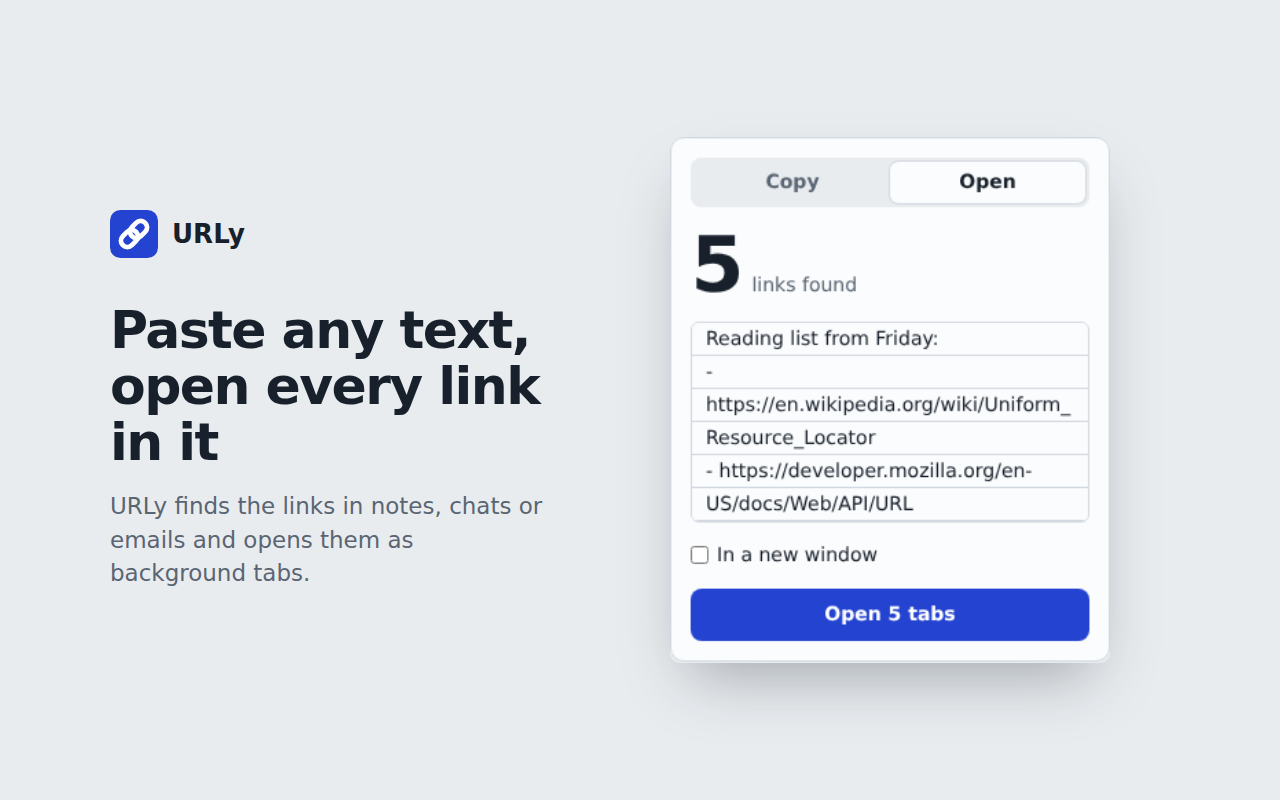
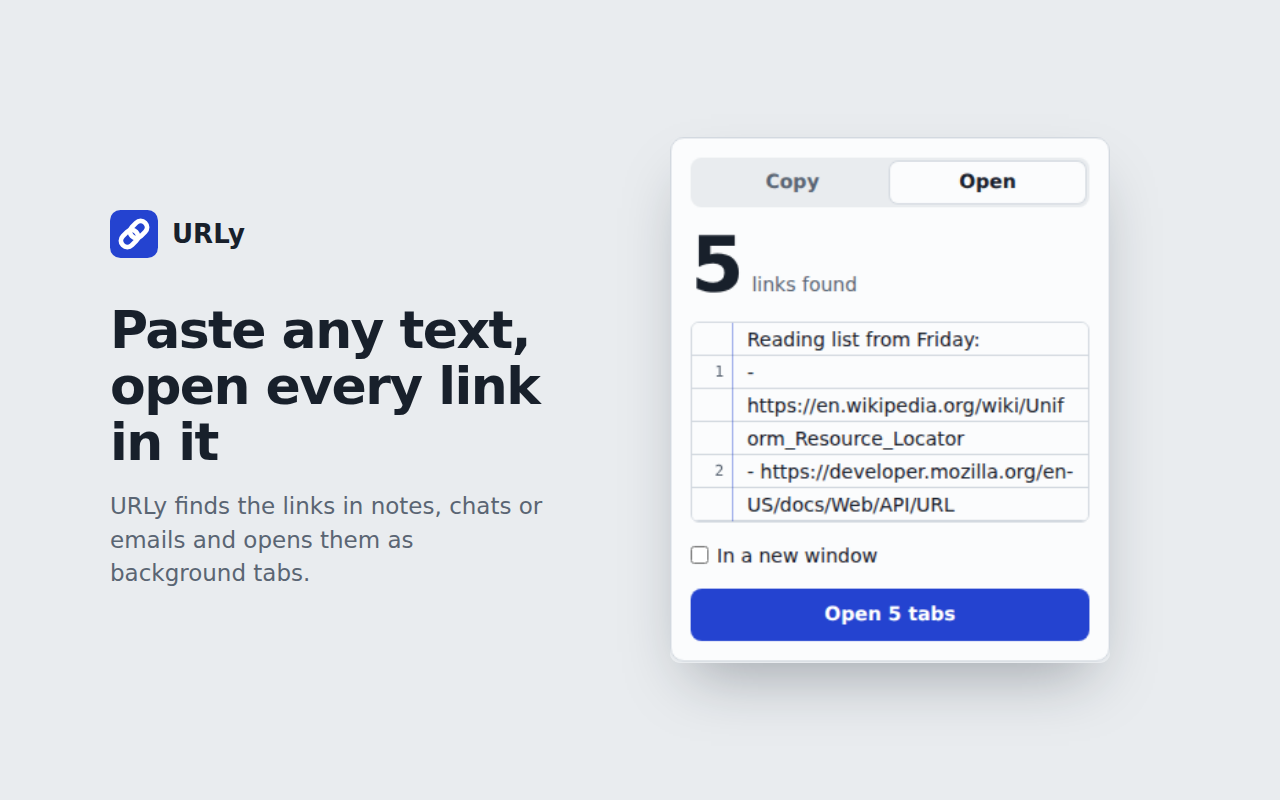
Number the links in the Open text box
A margin over the text box shows each line's link number, matching the
found count and the order tabs open in. A hidden mirror measures wrapped
lines so numbers stay aligned, and the margin scrolls with the text.

diff --git a/src/entrypoints/popup/main.ts b/src/entrypoints/popup/main.ts
@@ -14,6 +14,7 @@ import {
   formatEntries,
   FORMATS,
   isCopyFormat,
+  linkNumbersByLine,
 } from '@/lib/urls';
 
 type Mode = Settings['mode'];
@@ -39,6 +40,8 @@ const openCount = $('open-count');
 const openLabel = $('open-label');
 const paste = $<HTMLTextAreaElement>('paste');
 const openButton = $<HTMLButtonElement>('open');
+const gutter = $('gutter');
+const mirror = $('mirror');
 const preview = $<HTMLOListElement>('preview');
 const status = $('status');
 const shortcut = $('shortcut');
@@ -117,7 +120,31 @@ function copy() {
   );
 }
 
+const row = (text: string) => {
+  const element = document.createElement('div');
+  element.textContent = text;
+  return element;
+};
+
+function renderGutter() {
+  const style = getComputedStyle(paste);
+  const padding =
+    parseFloat(style.paddingLeft) + parseFloat(style.paddingRight);
+  mirror.style.width = `${paste.clientWidth - padding}px`;
+  mirror.replaceChildren(...paste.value.split('\n').map(row));
+  const numbers = linkNumbersByLine(paste.value);
+  gutter.replaceChildren(
+    ...[...mirror.children].map((line, index) => {
+      const number = row(String(numbers[index] ?? ''));
+      number.style.height = `${(line as HTMLElement).offsetHeight}px`;
+      return number;
+    }),
+  );
+  gutter.scrollTop = paste.scrollTop;
+}
+
 function updateLinks() {
+  renderGutter();
   links = extractUrls(paste.value);
   const count = links.length;
   openCount.textContent = String(count);
@@ -191,6 +218,9 @@ clean.addEventListener('change', () => {
 
 copyButton.addEventListener('click', copy);
 openButton.addEventListener('click', () => void open());
+paste.addEventListener('scroll', () => {
+  gutter.scrollTop = paste.scrollTop;
+});
 paste.addEventListener('input', () => {
   updateLinks();
   setStatus('');

diff --git a/src/entrypoints/popup/style.css b/src/entrypoints/popup/style.css
@@ -201,11 +201,53 @@ textarea {
   accent-color: var(--accent);
 }
 
+/* The textarea cannot number its own lines, so a gutter sits over its left
+   padding and a hidden mirror measures how tall each wrapped line is. */
+.editor {
+  position: relative;
+  margin-bottom: 14px;
+}
+
+.gutter {
+  position: absolute;
+  top: 1px;
+  bottom: 1px;
+  left: 1px;
+  width: 30px;
+  padding-right: 6px;
+  overflow: hidden;
+  pointer-events: none;
+  border-right: 1px solid color-mix(in srgb, var(--accent) 40%, transparent);
+  border-radius: 5px 0 0 5px;
+  color: var(--muted);
+  font:
+    11px/24px ui-monospace,
+    'Cascadia Mono',
+    Menlo,
+    monospace;
+  font-variant-numeric: tabular-nums;
+  text-align: right;
+}
+
+.mirror {
+  position: absolute;
+  top: 0;
+  left: 0;
+  visibility: hidden;
+  pointer-events: none;
+  line-height: 24px;
+  white-space: pre-wrap;
+  overflow-wrap: anywhere;
+}
+
+.mirror > div {
+  min-height: 24px;
+}
+
 textarea {
   display: block;
   width: 100%;
-  margin-bottom: 14px;
-  padding: 0 10px;
+  padding: 0 10px 0 40px;
   /* Long lists scroll inside the box; the popup itself never grows or scrolls. */
   height: 146px;
   resize: none;

diff --git a/src/lib/urls.test.ts b/src/lib/urls.test.ts
@@ -3,6 +3,7 @@ import {
   copyableLinks,
   extractUrls,
   formatEntries,
+  linkNumbersByLine,
   formatLinks,
   FORMATS,
   type CopyFormat,
@@ -199,5 +200,26 @@ describe('extractUrls', () => {
     expect(extractUrls('http://localhost:3000/a http://intranet/')).toEqual([
       'http://localhost:3000/a',
     ]);
+  });
+});
+
+describe('linkNumbersByLine', () => {
+  const text = [
+    'Links:',
+    'https://a.com',
+    '',
+    'https://b.com and https://c.com',
+    'https://a.com again',
+    'www.d.org',
+  ].join('\n');
+
+  it('numbers the first new link on each line', () => {
+    expect(linkNumbersByLine(text)).toEqual([null, 1, null, 2, null, 4]);
+  });
+
+  it('agrees with extractUrls on the total', () => {
+    const numbers = linkNumbersByLine(text).filter((n) => n !== null);
+    expect(extractUrls(text)).toHaveLength(4);
+    expect(Math.max(...numbers)).toBeLessThanOrEqual(4);
   });
 });

diff --git a/src/entrypoints/popup/index.html b/src/entrypoints/popup/index.html
@@ -86,12 +86,16 @@
           <span class="label" id="open-label">links found</span>
         </p>
         <label class="visually-hidden" for="paste">Text with links</label>
-        <textarea
-          id="paste"
-          rows="6"
-          spellcheck="false"
-          placeholder="Paste links or any text that contains them"
-        ></textarea>
+        <div class="editor">
+          <textarea
+            id="paste"
+            rows="6"
+            spellcheck="false"
+            placeholder="Paste links or any text that contains them"
+          ></textarea>
+          <div class="gutter" id="gutter" aria-hidden="true"></div>
+          <div class="mirror" id="mirror" aria-hidden="true"></div>
+        </div>
         <div class="options">
           <label class="check">
             <input type="checkbox" id="new-window" />

diff --git a/e2e/popup.spec.ts b/e2e/popup.spec.ts
@@ -158,6 +158,24 @@ test('opens links in a new window', async ({ page, popupUrl }) => {
   expect(windows).toContainEqual(['https://one.test/', 'https://two.test/']);
 });
 
+test('numbers the links beside the text box', async ({ page, popupUrl }) => {
+  await page.goto(popupUrl);
+  await page.getByRole('tab', { name: 'Open' }).click();
+  await page
+    .getByRole('textbox')
+    .fill(
+      'Links:\nhttps://a.test/\n\nhttps://b.test/ https://a.test/\nwww.c.test',
+    );
+
+  await expect(page.locator('#gutter > div')).toHaveText([
+    '',
+    '1',
+    '',
+    '2',
+    '3',
+  ]);
+});
+
 test('asks before opening more than 20 tabs', async ({ page, popupUrl }) => {
   await page.goto(popupUrl);
   await page.getByRole('tab', { name: 'Open' }).click();

diff --git a/src/lib/urls.ts b/src/lib/urls.ts
@@ -184,3 +184,18 @@ export function extractUrls(text: string): string[] {
   }
   return [...urls];
 }
+
+// The link number shown beside each line of pasted text: the first new link
+// on that line, matching the order extractUrls returns and tabs open in.
+export function linkNumbersByLine(text: string): (number | null)[] {
+  const seen = new Set<string>();
+  return text.split('\n').map((line) => {
+    let first: number | null = null;
+    for (const url of extractUrls(line)) {
+      if (seen.has(url)) continue;
+      seen.add(url);
+      first ??= seen.size;
+    }
+    return first;
+  });
+}
